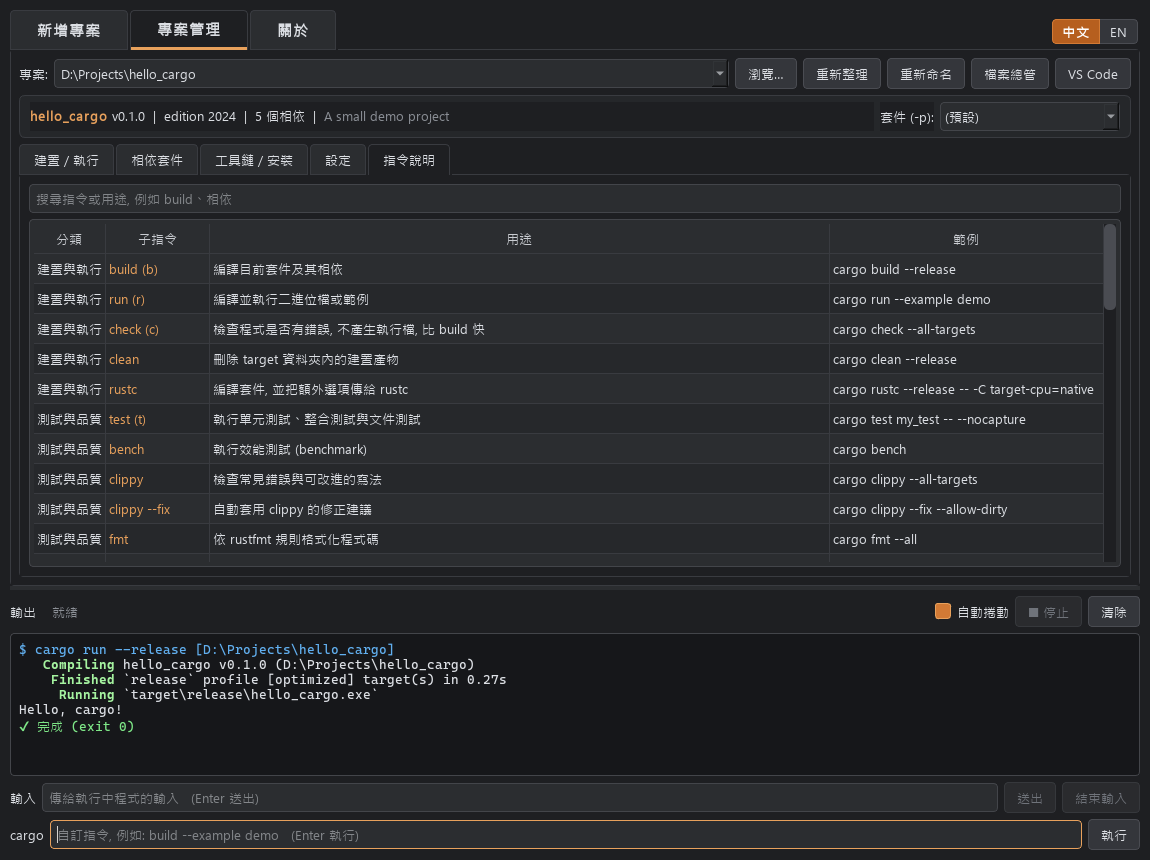
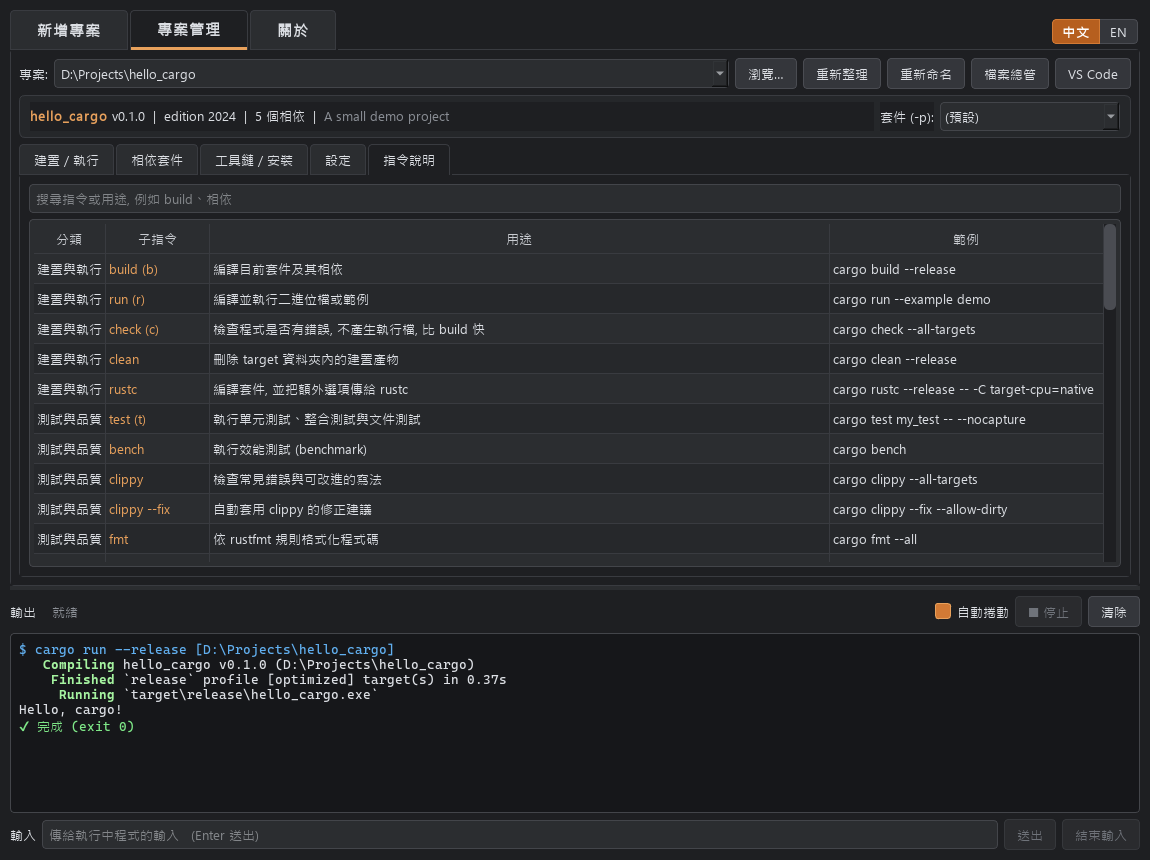
Move custom cargo command row to the Build/Run tab
Place the row above the Commands and Options groups. Bump version to
1.4.1 and refresh README text and screenshots.

Changed region(s): [[0.0, 0.907, 0.8826, 0.9977], [0.8826, 0.907, 0.9739, 0.9977]]

diff --git a/cargo_manager.py b/cargo_manager.py
@@ -44,7 +44,7 @@ from PySide6.QtWidgets import (
     QTableWidget, QTableWidgetItem, QTabWidget, QVBoxLayout, QWidget)
 
 APP_NAME = "Cargo Manager"
-APP_VERSION = "1.4.0"
+APP_VERSION = "1.4.1"
 IS_WIN = sys.platform.startswith("win")
 EXE_SUFFIX = ".exe" if IS_WIN else ""
 
@@ -930,19 +930,6 @@ class MainWindow(QMainWindow):
         ol.addLayout(ih)
         self._set_stdin_enabled(False)
 
-        # 自訂指令
-        ch = QHBoxLayout()
-        ch.addWidget(QLabel("cargo"))
-        self.ed_custom = QLineEdit()
-        self.ed_custom.setPlaceholderText("自訂指令, 例如: build --example demo   (Enter 執行)")
-        self.ed_custom.returnPressed.connect(self.run_custom)
-        ch.addWidget(self.ed_custom, 1)
-        b = QPushButton("執行")
-        b.clicked.connect(self.run_custom)
-        self.busy_buttons.append(b)
-        ch.addWidget(b)
-        ol.addLayout(ch)
-
         splitter.addWidget(out_box)
         splitter.setSizes([520, 320])
         self.resize(1150, 860)
@@ -1014,7 +1001,20 @@ class MainWindow(QMainWindow):
 
     def _tab_build(self):
         w = QWidget()
-        lay = QHBoxLayout(w)
+        root = QVBoxLayout(w)
+
+        # 自訂指令
+        ch = QHBoxLayout()
+        ch.addWidget(QLabel("cargo"))
+        self.ed_custom = QLineEdit()
+        self.ed_custom.setPlaceholderText("自訂指令, 例如: build --example demo   (Enter 執行)")
+        self.ed_custom.returnPressed.connect(self.run_custom)
+        ch.addWidget(self.ed_custom, 1)
+        ch.addWidget(self._btn("執行", self.run_custom))
+        root.addLayout(ch)
+
+        lay = QHBoxLayout()
+        root.addLayout(lay, 1)
 
         # 指令按鈕
         g = QGroupBox("指令")

diff --git a/CLAUDE.md b/CLAUDE.md
@@ -31,7 +31,7 @@ Rust cargo 的 PySide6 深色模式 GUI 管理工具。單一檔案 `cargo_manag
    - 分頁標籤選中時**文字顏色不變**，不要在 `QTabBar::tab:selected` 設 `color`。
    - 專案路徑列、專案資訊卡、子分頁（建置/執行、相依套件、工具鏈/安裝、設定、指令說明）**只在「專案管理」頁**。
    - 啟動時有上次專案 → 停在「專案管理」；否則停在「新增專案」。開啟 / 建立專案後自動切到「專案管理」（`open_project` 內 `setCurrentWidget(self.page_manage)`）。
-9. 底部「輸出」區與自訂 cargo 指令列為所有主分頁共用（在 `QSplitter` 下半部）。
+9. 底部「輸出」區為所有主分頁共用（在 `QSplitter` 下半部）；自訂 cargo 指令列在「建置 / 執行」子分頁頂端。
 
 ## 程式架構（cargo_manager.py）
 
@@ -70,20 +70,20 @@ Rust cargo 的 PySide6 深色模式 GUI 管理工具。單一檔案 `cargo_manag
 - `run_quiet` 的 callback 需容忍 QProcess 已被銷毀（視窗關閉時），已用 `try/except RuntimeError` 保護。
 - 語系：程式內字串仍寫繁體中文，並在 `EN` 加上英文對照（英文不可含 `&`，會被當成快捷鍵）。靜態元件文字建好後會自動納入切換；執行期才產生的文字用 `t("...{x}").format(x=...)`（不要用 f-string 當 key）；會停留在畫面上的動態文字要能在 `_retranslate()` 重繪（狀態列 `_set_status`、專案資訊 `_set_info`）。
 
-## 功能清單（目前 v1.4.0）
+## 功能清單（目前 v1.4.1）
 
 - **語系**：主分頁列右上角切換繁體中文 / English，立即生效，存於 JSON 的 `ui.language`（預設繁中）；已輸出的記錄與 cargo 輸出不翻譯。
 
 - **新增專案**：`cargo new` / `cargo init`，bin/lib、edition 2015–2024、vcs。
 - **專案管理**
   - 專案列：最近 15 個專案、瀏覽、重新整理、重新命名（改 `[package] name`，可同時改資料夾；僅限單一套件專案）、檔案總管、VS Code（`code` 指令）。
-  - 建置/執行：run、build、check、test、bench、clippy、clippy --fix、fmt、fmt --check、doc --open、clean、update、tree、fix；選項 release / all-features / no-default-features / workspace / -v / features / target（可載入 rustup 已安裝 target）/ --bin / 額外參數 / 程式參數（`--` 後）/ 環境變數。
+  - 建置/執行：頂端自訂 `cargo ...` 指令列；run、build、check、test、bench、clippy、clippy --fix、fmt、fmt --check、doc --open、clean、update、tree、fix；選項 release / all-features / no-default-features / workspace / -v / features / target（可載入 rustup 已安裝 target）/ --bin / 額外參數 / 程式參數（`--` 後）/ 環境變數。
   - 相依套件：表格（名稱、版本需求、類型、features、optional、來源）、新增、移除、`update -p`、crates.io 搜尋（`cargo search`，雙擊加入）。
   - 工具鏈/安裝：rustup show/update/toolchain/target/component、default、override set/unset、target add/remove；`cargo install`（--locked/--force）/ uninstall / `install --path .`。
   - 設定：cargo / rustup 路徑（自動偵測、瀏覽、儲存並檢查）、清除最近專案、執行前清除輸出。
   - 指令說明：cargo 各指令的分類、用途與範例表格，可依關鍵字即時篩選。
 - **關於**：圖示、名稱、版本、簡介、作者、Python/PySide6/cargo/rustc/rustup 版本、設定檔路徑、相關連結。
-- 輸出區：ANSI 彩色、自動捲動、停止、清除；未換行的提示會立即顯示；輸入列（`send_stdin`，僅主程序執行中可用）可傳文字給執行中的程式，「結束輸入」送出 EOF；底部自訂 `cargo ...` 指令。
+- 輸出區：ANSI 彩色、自動捲動、停止、清除；未換行的提示會立即顯示；輸入列（`send_stdin`，僅主程序執行中可用）可傳文字給執行中的程式，「結束輸入」送出 EOF。
 
 ## 測試
 
@@ -101,4 +101,4 @@ QT_QPA_PLATFORM=offscreen python3 test_script.py
 
 ## 版本
 
-- 修改功能時同步更新 `APP_VERSION`（目前 `1.4.0`）與本檔「功能清單」。
+- 修改功能時同步更新 `APP_VERSION`（目前 `1.4.1`）與本檔「功能清單」。
